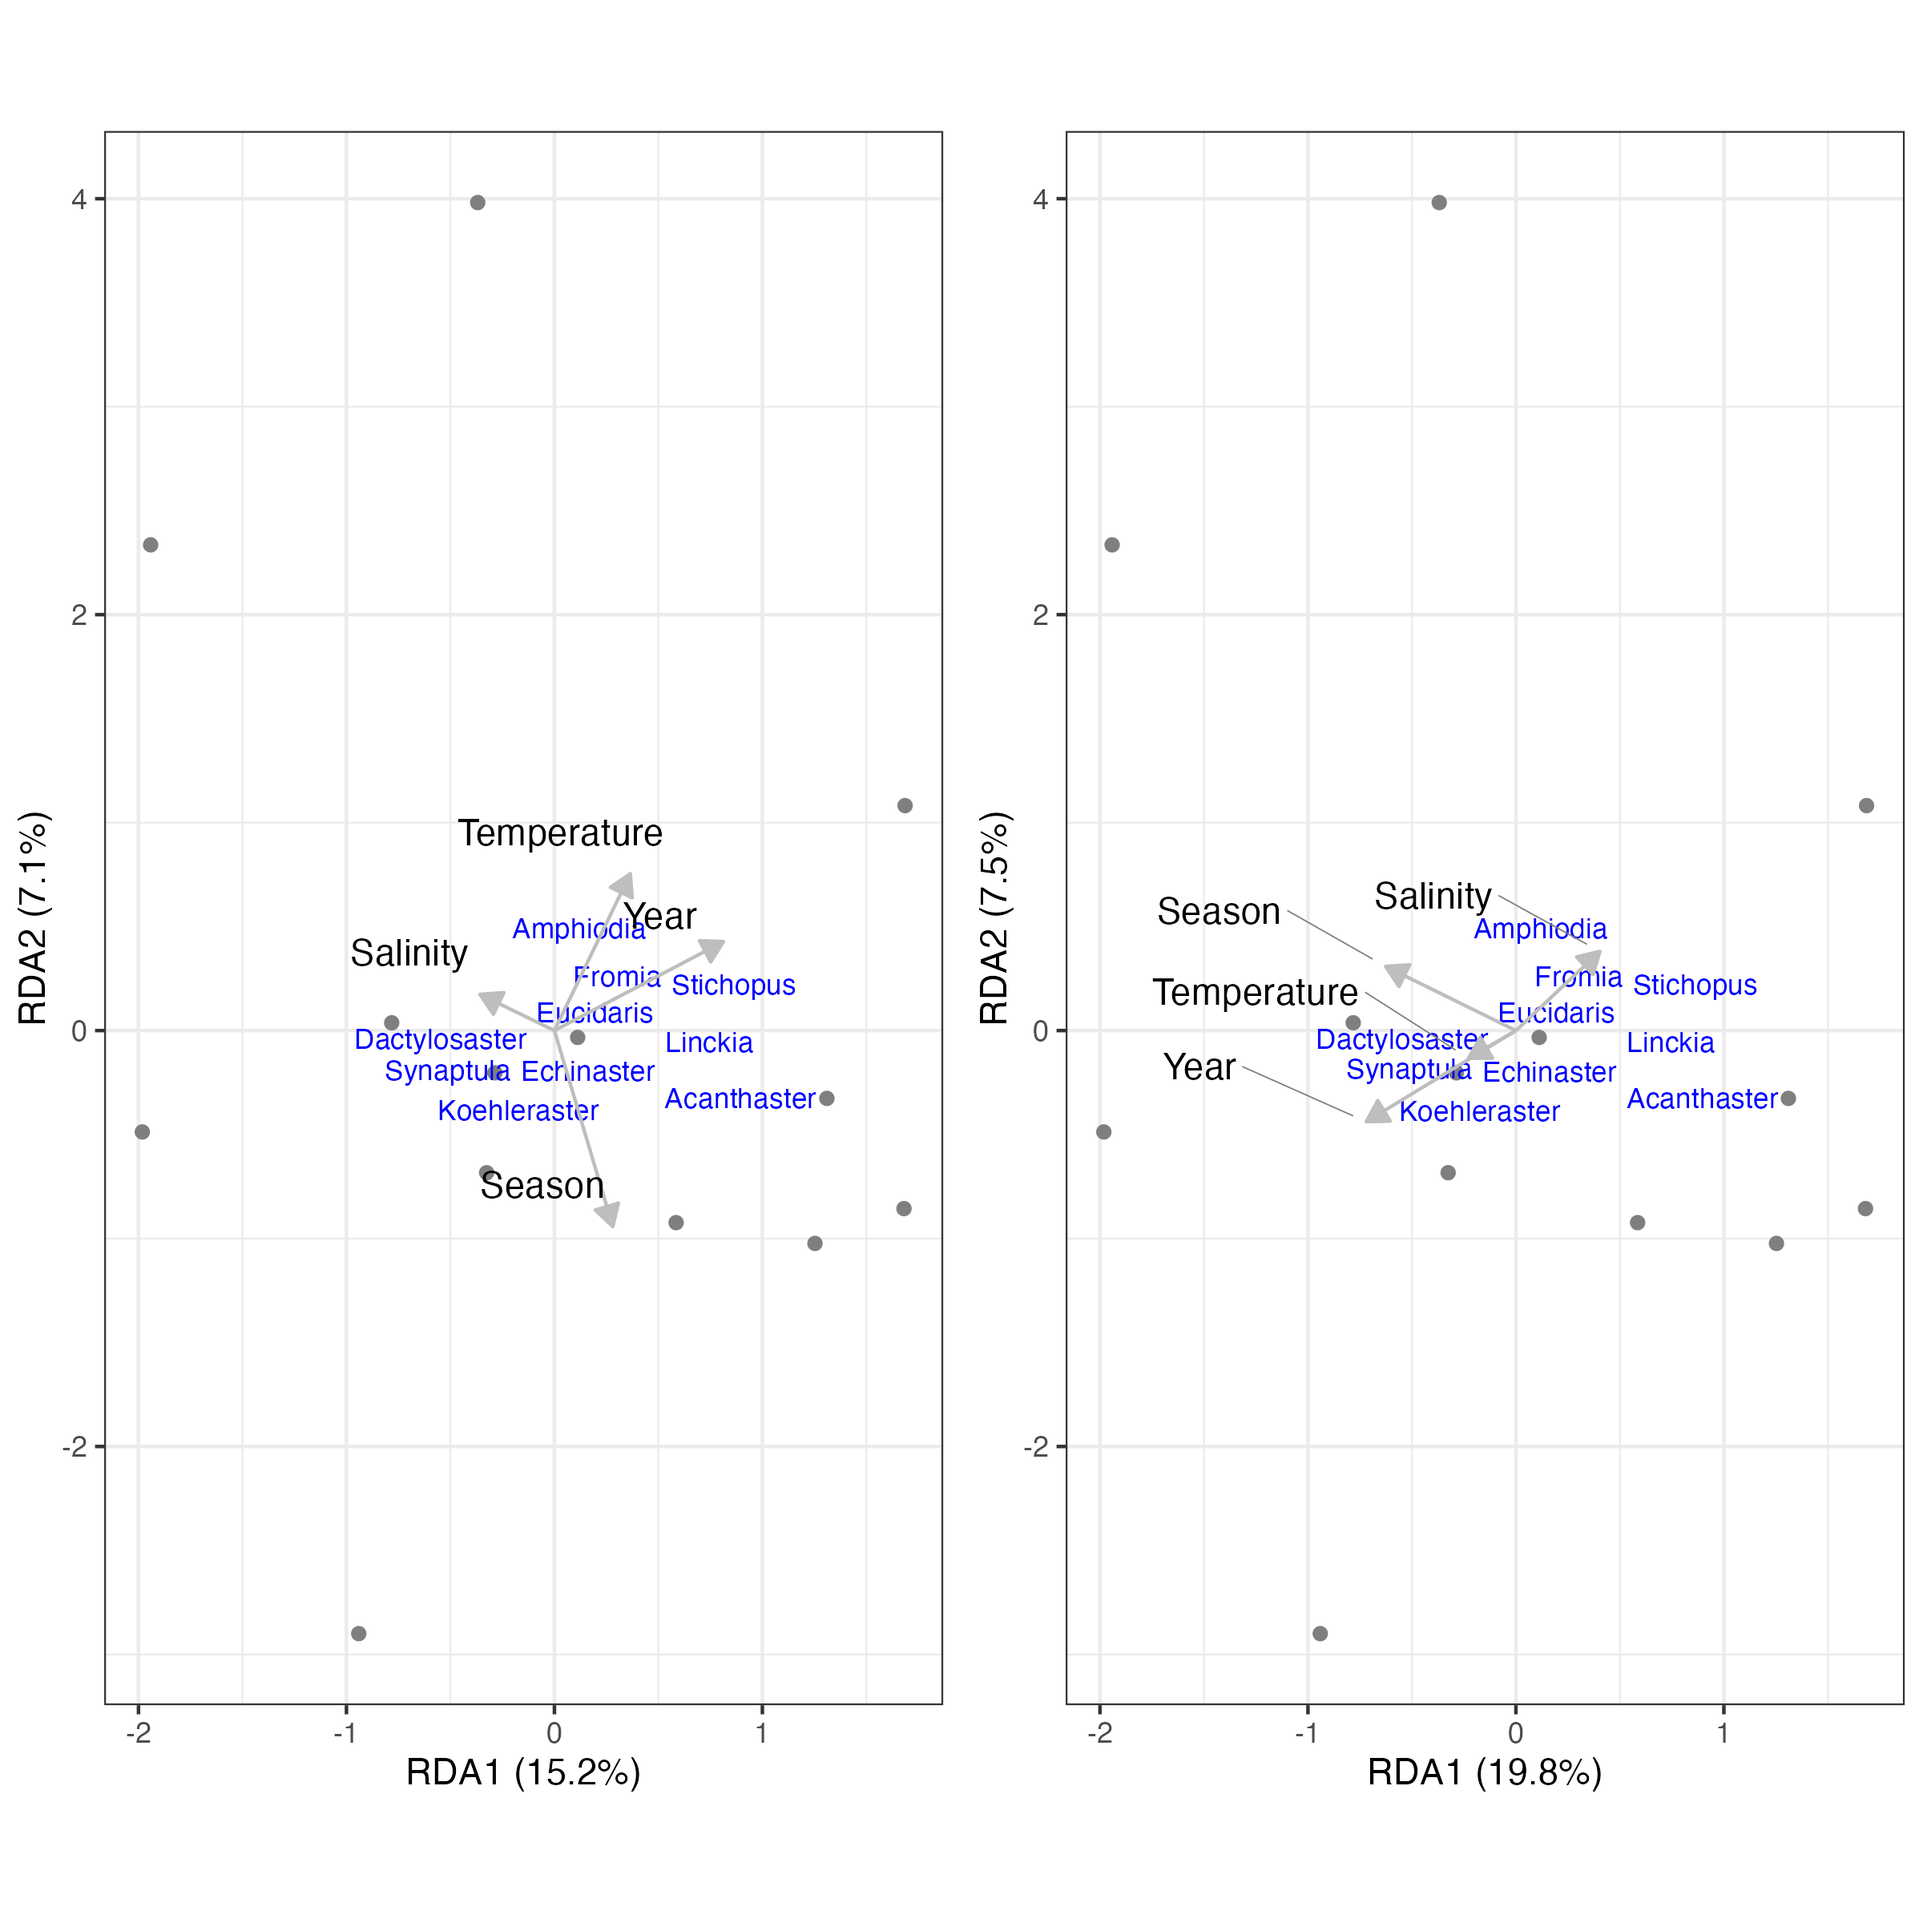
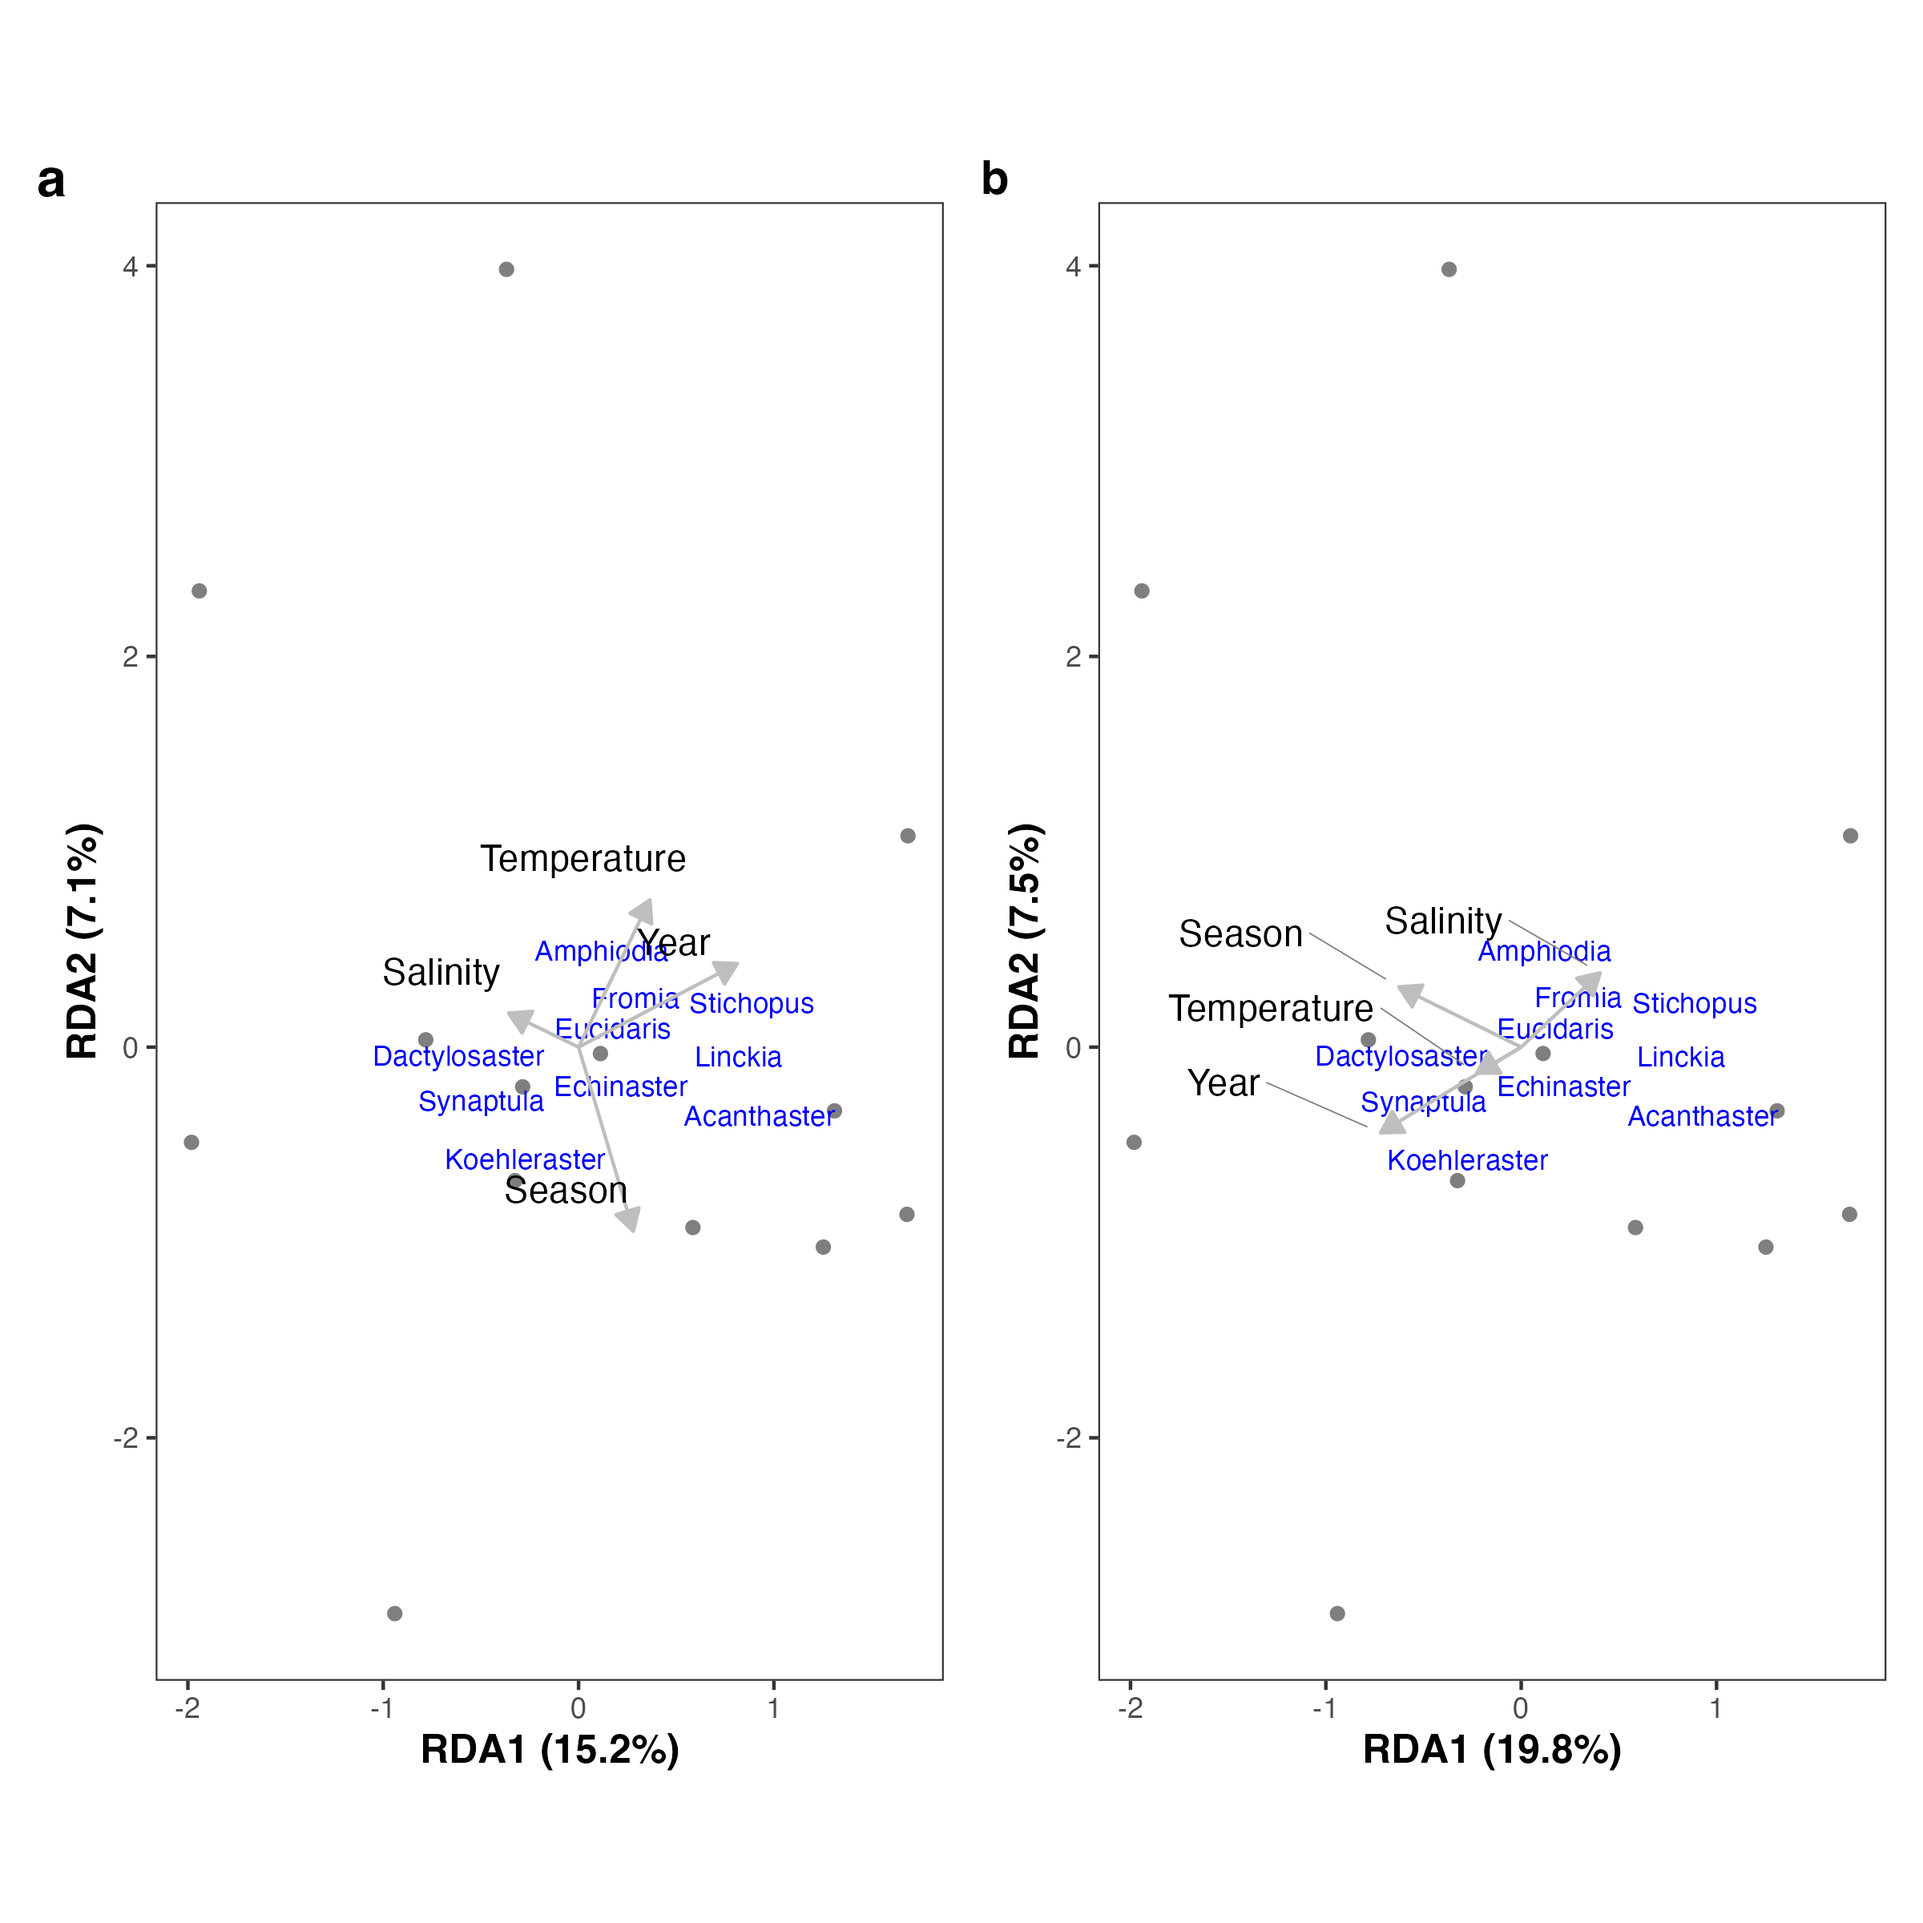
moore rda patchwork solve

diff --git a/moore/rda/moore-rda-output.md b/moore/rda/moore-rda-output.md
@@ -1,0 +1,287 @@
+Call:
+  rda(formula = pa ~ Year + Season + Temperature + Salinity, data = env1,      
+      scale = TRUE) 
+
+Partitioning of correlations:
+  Inertia Proportion
+Total          23.000     1.0000
+Constrained     7.409     0.3221
+Unconstrained  15.591     0.6779
+
+Eigenvalues, and their contribution to the correlations 
+
+Importance of components:
+  RDA1   RDA2    RDA3    RDA4    PC1    PC2    PC3     PC4
+Eigenvalue            3.5029 1.6423 1.32536 0.93817 5.1507 3.2170 2.6910 1.64875
+Proportion Explained  0.1523 0.0714 0.05762 0.04079 0.2239 0.1399 0.1170 0.07168
+Cumulative Proportion 0.1523 0.2237 0.28133 0.32212 0.5461 0.6859 0.8029 0.87462
+PC5     PC6     PC7     PC8
+Eigenvalue            1.06765 0.91214 0.61844 0.28557
+Proportion Explained  0.04642 0.03966 0.02689 0.01242
+Cumulative Proportion 0.92104 0.96070 0.98758 1.00000
+
+Accumulated constrained eigenvalues
+Importance of components:
+  RDA1   RDA2   RDA3   RDA4
+Eigenvalue            3.5029 1.6423 1.3254 0.9382
+Proportion Explained  0.4728 0.2217 0.1789 0.1266
+Cumulative Proportion 0.4728 0.6945 0.8734 1.0000
+
+Scaling 2 for species and site scores
+* Species are scaled proportional to eigenvalues
+* Sites are unscaled: weighted dispersion equal on all dimensions
+* General scaling constant of scores:  4.075935 
+
+
+Species scores
+
+RDA1      RDA2      RDA3     RDA4      PC1      PC2
+Acanthaster     0.59785 -0.196551 -0.221648  0.07778  0.18469 -0.17428
+Amphiodia       0.06959  0.397419 -0.332356 -0.41722 -0.17464  0.38224
+Asteropsis     -0.27737  0.117307 -0.015303 -0.11276  0.26427  0.73103
+Astropyga      -0.27737  0.117307 -0.015303 -0.11276  0.26427  0.73103
+Dactylosaster  -0.41511  0.052678  0.137460  0.06566 -0.17913 -0.22824
+Echinaster      0.49894 -0.080337  0.012220 -0.24460 -0.09243  0.04736
+Eucidaris       0.09900 -0.003788 -0.048120  0.36729 -0.10839  0.06884
+Fromia          0.35209  0.354503 -0.233562  0.14727 -0.23601  0.10290
+Holothuria      0.51030  0.153318  0.348254 -0.04628  0.31900  0.24196
+Koehleraster   -0.22261 -0.476004 -0.519399  0.05243 -0.05408 -0.08329
+Labidodemas    -0.18308  0.260777 -0.105204 -0.02980  0.71947  0.27789
+Linckia         0.55791  0.036165 -0.030241  0.01992  0.19833 -0.09431
+Macrophiothrix  0.02948  0.235787 -0.127144  0.07240  0.70990 -0.35476
+Mespilia        0.02948  0.235787 -0.127144  0.07240  0.70990 -0.35476
+Ophiocoma      -0.18308  0.260777 -0.105204 -0.02980  0.71947  0.27789
+Ophiomastix     0.02375  0.293882  0.081571  0.19971  0.46886 -0.33381
+Ophionereis    -0.17595  0.257329 -0.044945  0.16107  0.45392 -0.29062
+Ophiothrix      0.42531  0.108315  0.096315  0.31396  0.08493 -0.17302
+Ophiura        -0.08137  0.150752  0.287020 -0.02694 -0.25431 -0.15373
+Stichopus       0.65875  0.131335 -0.123692 -0.13826 -0.22064  0.10264
+Synaptula       0.03782 -0.104679  0.384925 -0.19569 -0.05588 -0.07481
+Thelenota      -0.28480  0.213045  0.007619  0.10197  0.39200 -0.43058
+Tripneustes    -0.18308  0.260777 -0.105204 -0.02980  0.71947  0.27789
+
+
+Site scores (weighted sums of species scores)
+
+RDA1     RDA2     RDA3    RDA4     PC1     PC2
+Dec_2015 -1.9815 -0.48748  0.53723  0.5117 -0.8254 -1.0517
+Jan_2016 -1.9416  2.33556 -0.88799 -3.2269  1.2177  3.3683
+Mar_2016 -0.3258 -0.68350  3.15517 -0.6330 -0.2575 -0.3447
+Jun_2016  0.5852 -0.92359  0.50366  0.7822  0.6385  0.1810
+Aug_2016 -0.9408 -2.89984 -2.41509  0.2673 -0.2492 -0.3838
+Dec_2016 -0.2864 -0.20321  0.50813  1.7388 -0.4390 -0.1785
+Jan_2017  0.1119 -0.03285  1.47511  1.4197 -0.3458 -0.4479
+Mar_2017  1.2529 -1.02353  0.06991 -1.3585 -0.1617  0.2017
+Dec_2017 -0.7824  0.03734  0.15322 -0.7177 -1.2494 -0.3273
+Jan_2018 -0.3687  3.98150 -1.20888  3.0197  3.2710 -1.6346
+Mar_2018  1.3101 -0.32613 -0.65278 -2.6402 -0.2745 -0.4646
+Nov_2019  1.6810 -0.85605  0.12996  0.9776 -0.2372  0.6080
+Jan_2020  1.6861  1.08178 -1.36765 -0.1407 -1.0875  0.4741
+
+
+Site constraints (linear combinations of constraining variables)
+
+RDA1    RDA2     RDA3    RDA4     PC1     PC2
+Dec_2015 -1.9127  0.2427  0.63337  0.3025 -0.8254 -1.0517
+Jan_2016 -1.2780  0.5405 -0.07051 -0.5196  1.2177  3.3683
+Mar_2016  0.1743 -0.4823  1.77361 -0.9017 -0.2575 -0.3447
+Jun_2016  0.6497 -2.3418  1.00687  0.2703  0.6385  0.1810
+Aug_2016 -1.0257 -2.1933 -2.39323  0.2416 -0.2492 -0.3838
+Dec_2016 -1.2336  0.5190  0.30544  0.6713 -0.4390 -0.1785
+Jan_2017  0.0123  0.7470  1.09475  0.9124 -0.3458 -0.4479
+Mar_2017  0.7933 -0.2068  1.42313 -0.1204 -0.1617  0.2017
+Dec_2017 -0.7794  0.8336 -0.77731 -0.2069 -1.2494 -0.3273
+Jan_2018  0.1358  1.0864 -0.58584  0.3336  3.2710 -1.6346
+Mar_2018  0.9904  0.1642 -0.72845 -3.2818 -0.2745 -0.4646
+Nov_2019  1.8512 -0.5426 -0.60565  1.6202 -0.2372  0.6080
+Jan_2020  1.6223  1.6334 -1.07618  0.6786 -1.0875  0.4741
+
+
+Biplot scores for constraining variables
+
+RDA1    RDA2    RDA3     RDA4 PC1 PC2
+Year         0.8130  0.4276 -0.3828  0.09820   0   0
+Season       0.2807 -0.9424 -0.1797  0.02923   0   0
+Temperature  0.3651  0.7540  0.5164 -0.17741   0   0
+Salinity    -0.3582  0.1742 -0.1020  0.91158   0   0
+
+Permutation test for rda under reduced model
+Permutation: free
+Number of permutations: 999
+
+Model: rda(formula = pa ~ Year + Season + Temperature + Salinity, data = env1, scale = TRUE)
+Df Variance      F Pr(>F)
+Model     4   7.4087 0.9504  0.514
+Residual  8  15.5913              
+> anova.cca(m2, by="axis", step=10000) # statistical significance of each axis
+Permutation test for rda under reduced model
+Forward tests for axes
+Permutation: free
+Number of permutations: 999
+
+Model: rda(formula = pa ~ Year + Season + Temperature + Salinity, data = env1, scale = TRUE)
+Df Variance      F Pr(>F)
+RDA1      1   3.5029 1.7974  0.403
+RDA2      1   1.6423 0.8427  0.957
+RDA3      1   1.3254 0.6801  0.934
+RDA4      1   0.9382 0.4814  0.831
+Residual  8  15.5913              
+
+anova.cca(m2, by="term", step=10000) # statistical significance of each term
+Permutation test for rda under reduced model
+Terms added sequentially (first to last)
+Permutation: free
+Number of permutations: 999
+
+Model: rda(formula = pa ~ Year + Season + Temperature + Salinity, data = env1, scale = TRUE)
+Df Variance      F Pr(>F)
+Year         1   2.8190 1.4464  0.106
+Season       1   1.8756 0.9624  0.483
+Temperature  1   1.7310 0.8882  0.562
+Salinity     1   0.9832 0.5045  0.885
+Residual     8  15.5913              
+
+vif.cca(m2) # anything above 10/20 should be avoided
+Year      Season Temperature    Salinity 
+1.343434    3.144518    3.660236    1.521375 
+
+RsquareAdj(m2)$adj.r.squared
+-0.01682204
+
+###############################################################################
+
+Call:
+  rda(formula = fin ~ Year + Season + Temperature + Salinity, data = env3,      
+      scale = TRUE) 
+
+Partitioning of correlations:
+  Inertia Proportion
+Total          15.000      1.000
+Constrained     5.266      0.351
+Unconstrained   9.734      0.649
+
+Eigenvalues, and their contribution to the correlations 
+
+Importance of components:
+  RDA1    RDA2    RDA3    RDA4    PC1    PC2     PC3     PC4
+Eigenvalue            2.9709 1.12926 0.72282 0.44266 3.5500 2.4719 1.30475 1.19193
+Proportion Explained  0.1981 0.07528 0.04819 0.02951 0.2367 0.1648 0.08698 0.07946
+Cumulative Proportion 0.1981 0.27334 0.32153 0.35104 0.5877 0.7525 0.83949 0.91895
+PC5     PC6     PC7
+Eigenvalue            0.59175 0.46402 0.16001
+Proportion Explained  0.03945 0.03093 0.01067
+Cumulative Proportion 0.95840 0.98933 1.00000
+
+Accumulated constrained eigenvalues
+Importance of components:
+  RDA1   RDA2   RDA3    RDA4
+Eigenvalue            2.9709 1.1293 0.7228 0.44266
+Proportion Explained  0.5642 0.2145 0.1373 0.08407
+Cumulative Proportion 0.5642 0.7787 0.9159 1.00000
+
+Scaling 2 for species and site scores
+* Species are scaled proportional to eigenvalues
+* Sites are unscaled: weighted dispersion equal on all dimensions
+* General scaling constant of scores:  3.584025 
+
+
+Species scores
+
+RDA1      RDA2      RDA3     RDA4      PC1      PC2
+Acanthaster -0.74151 -0.009133  0.098748 -0.09941 -0.25526 -0.04911
+Amphiodia    0.01785 -0.747452 -0.072282 -0.06998  0.21299  0.20112
+Echinaster  -0.54720 -0.152790 -0.175959  0.10603  0.11032 -0.46776
+Eucidaris   -0.06234  0.092974  0.471023  0.13354  0.13973 -0.52380
+Holothuria  -0.53524  0.141285 -0.133214 -0.12735 -0.46133 -0.22123
+Labidodemas  0.27074 -0.242207  0.106843 -0.06222 -0.77542  0.12136
+Linckia     -0.57006 -0.146474  0.191960  0.11477 -0.23178 -0.52373
+Ophiocoma    0.27074 -0.242207  0.106843 -0.06222 -0.77542  0.12136
+Ophiomastix  0.04015  0.114932  0.107349 -0.41837 -0.52111  0.29611
+Ophionereis  0.26695 -0.066753  0.230657 -0.13503 -0.49005 -0.33175
+Ophiothrix  -0.40094  0.154298  0.353787 -0.09076 -0.01663  0.66881
+Ophiura      0.12489  0.205262 -0.221214 -0.25444  0.33301  0.63650
+Stichopus   -0.68385 -0.270266 -0.006912 -0.15940  0.21323 -0.40381
+Thelenota    0.37735 -0.047135  0.153196 -0.05063 -0.39887 -0.01322
+Tripneustes  0.27074 -0.242207  0.106843 -0.06222 -0.77542  0.12136
+
+
+Site scores (weighted sums of species scores)
+
+RDA1    RDA2    RDA3    RDA4      PC1     PC2
+Dec_2015  1.62160  0.5261 -0.5290  1.9698  0.74060 -0.4532
+Jan_2016  1.53449 -2.4735 -0.6245 -0.1900 -1.14218  0.2197
+Mar_2016  0.50255  1.8059 -1.3979 -0.4992  0.23924  1.0449
+Jun_2016 -0.60717  1.0240  0.3043  1.0635 -0.43136  0.7485
+Dec_2016  0.47152  0.8022  1.7968  2.0277  0.28467 -2.0459
+Jan_2017 -0.02293  2.0929 -0.6426 -3.8439  0.12936  1.0934
+Mar_2017 -1.32263 -0.2028 -1.4569  1.2929  0.01139 -1.4737
+Dec_2017  1.05729 -0.1393 -1.0822 -0.0111  1.56604  1.5594
+Jan_2018  0.90416 -0.9035  3.6734 -4.2951 -2.73493  0.3871
+Mar_2018 -1.30838 -1.7726 -1.6940  0.9180  0.21553 -0.6706
+Nov_2019 -1.69164  0.3541  1.6081  1.7329  0.41396 -0.5731
+Jan_2020 -1.13886 -1.1134  0.0445 -0.1654  0.70768  0.1635
+
+
+Site constraints (linear combinations of constraining variables)
+
+RDA1    RDA2    RDA3    RDA4      PC1     PC2
+Dec_2015  1.78907  0.3759  0.1236  0.3885  0.74060 -0.4532
+Jan_2016  1.25600 -0.5995 -0.1082  0.3306 -1.14218  0.2197
+Mar_2016 -0.26460  1.0886 -1.7220 -0.2763  0.23924  1.0449
+Jun_2016 -0.78030  1.0742  0.1601  2.4424 -0.43136  0.7485
+Dec_2016  1.23707  0.2778  0.5109 -0.0335  0.28467 -2.0459
+Jan_2017  0.10304  1.1862 -0.1056 -1.4502  0.12936  1.0934
+Mar_2017 -0.74606  1.1491 -0.9965 -0.6879  0.01139 -1.4737
+Dec_2017  0.88712 -1.0823  0.5425  0.2483  1.56604  1.5594
+Jan_2018  0.09768 -0.6115  0.6424 -0.6417 -2.73493  0.3871
+Mar_2018 -0.88411 -2.2238 -1.8700  0.6027  0.21553 -0.6706
+Nov_2019 -1.54879  0.1871  1.8442  0.7012  0.41396 -0.5731
+Jan_2020 -1.14612 -0.8217  0.9785 -1.6241  0.70768  0.1635
+
+
+Biplot scores for constraining variables
+
+RDA1    RDA2     RDA3    RDA4 PC1 PC2
+Year        -0.7197 -0.4382  0.36767 -0.3934   0   0
+Season      -0.6265  0.3085 -0.03585  0.7149   0   0
+Temperature -0.2282 -0.1331 -0.38405 -0.8847   0   0
+Salinity     0.4040  0.3806  0.79121 -0.2567   0   0
+
+Model: rda(formula = fin ~ Year + Season + Temperature + Salinity, data = env3, scale = TRUE)
+Df Variance      F Pr(>F)
+Model     4   5.2656 0.9466  0.557
+Residual  7   9.7344   
+
+Permutation test for rda under reduced model
+Forward tests for axes
+Permutation: free
+Number of permutations: 999
+
+Model: rda(formula = fin ~ Year + Season + Temperature + Salinity, data = env3, scale = TRUE)
+Df Variance      F Pr(>F)
+RDA1      1   2.9709 2.1364  0.350
+RDA2      1   1.1293 0.8120  0.970
+RDA3      1   0.7228 0.5198  0.977
+RDA4      1   0.4427 0.3183  0.943
+Residual  7   9.7344              
+
+anova.cca(m3, by="term", step=10000) # statistical significance of each term
+Permutation test for rda under reduced model
+Terms added sequentially (first to last)
+Permutation: free
+Number of permutations: 999
+
+Model: rda(formula = fin ~ Year + Season + Temperature + Salinity, data = env3, scale = TRUE)
+Df Variance      F Pr(>F)
+Year         1   1.9221 1.3822  0.187
+Season       1   1.4573 1.0479  0.389
+Temperature  1   0.9434 0.6784  0.781
+Salinity     1   0.9428 0.6780  0.734
+Residual     7   9.7344              
+
+vif.cca(m3) # anything above 10/20 should be avoided
+Year      Season Temperature    Salinity 
+1.459767    2.334003    2.634808    1.621219 
+
+RsquareAdj(m3)$adj.r.squared
+-0.01979395
